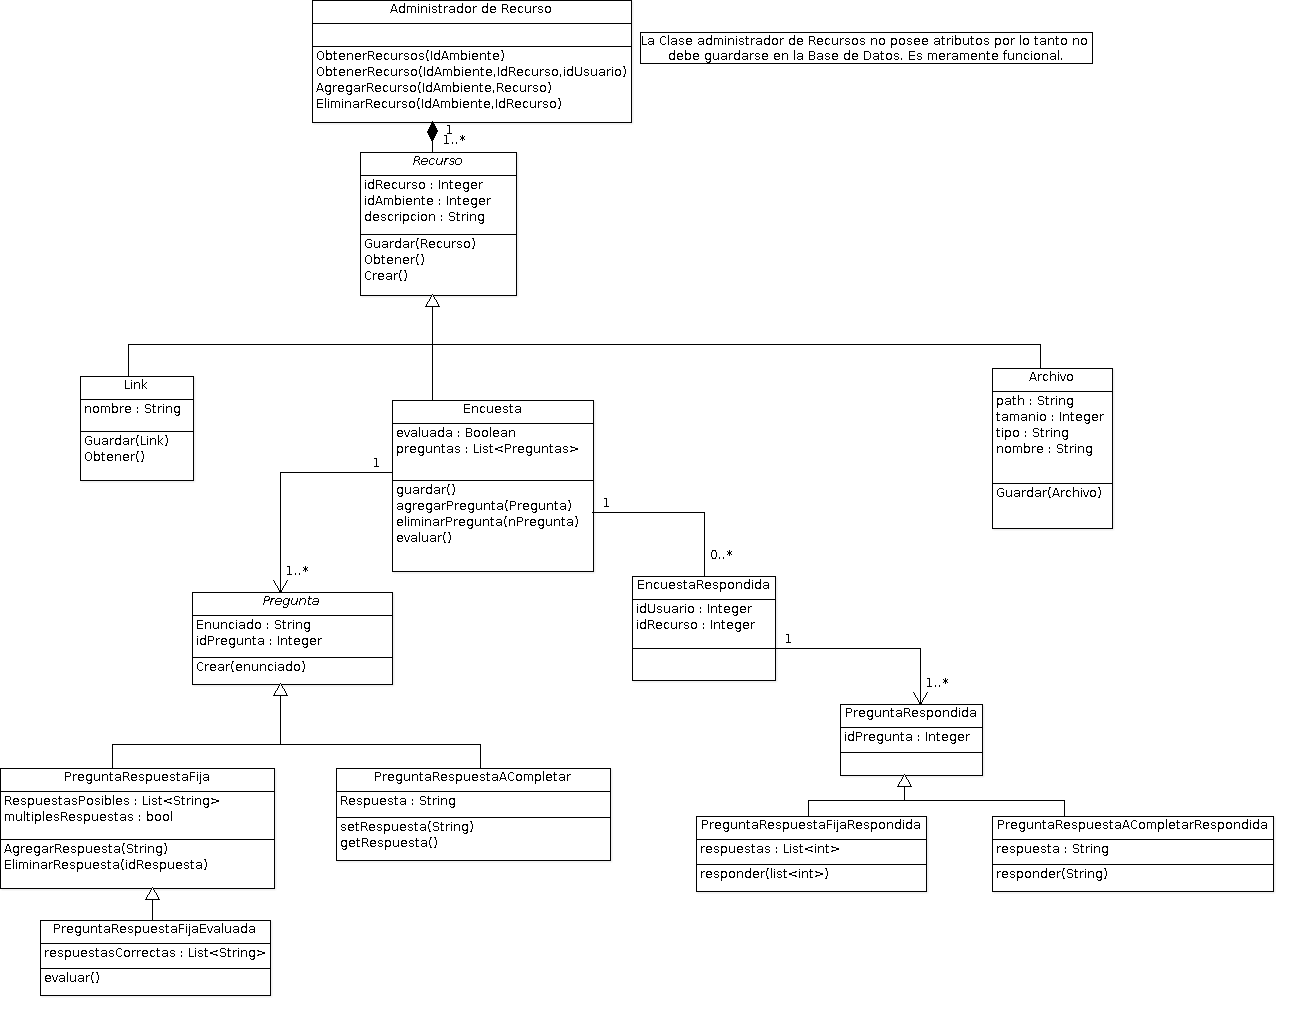
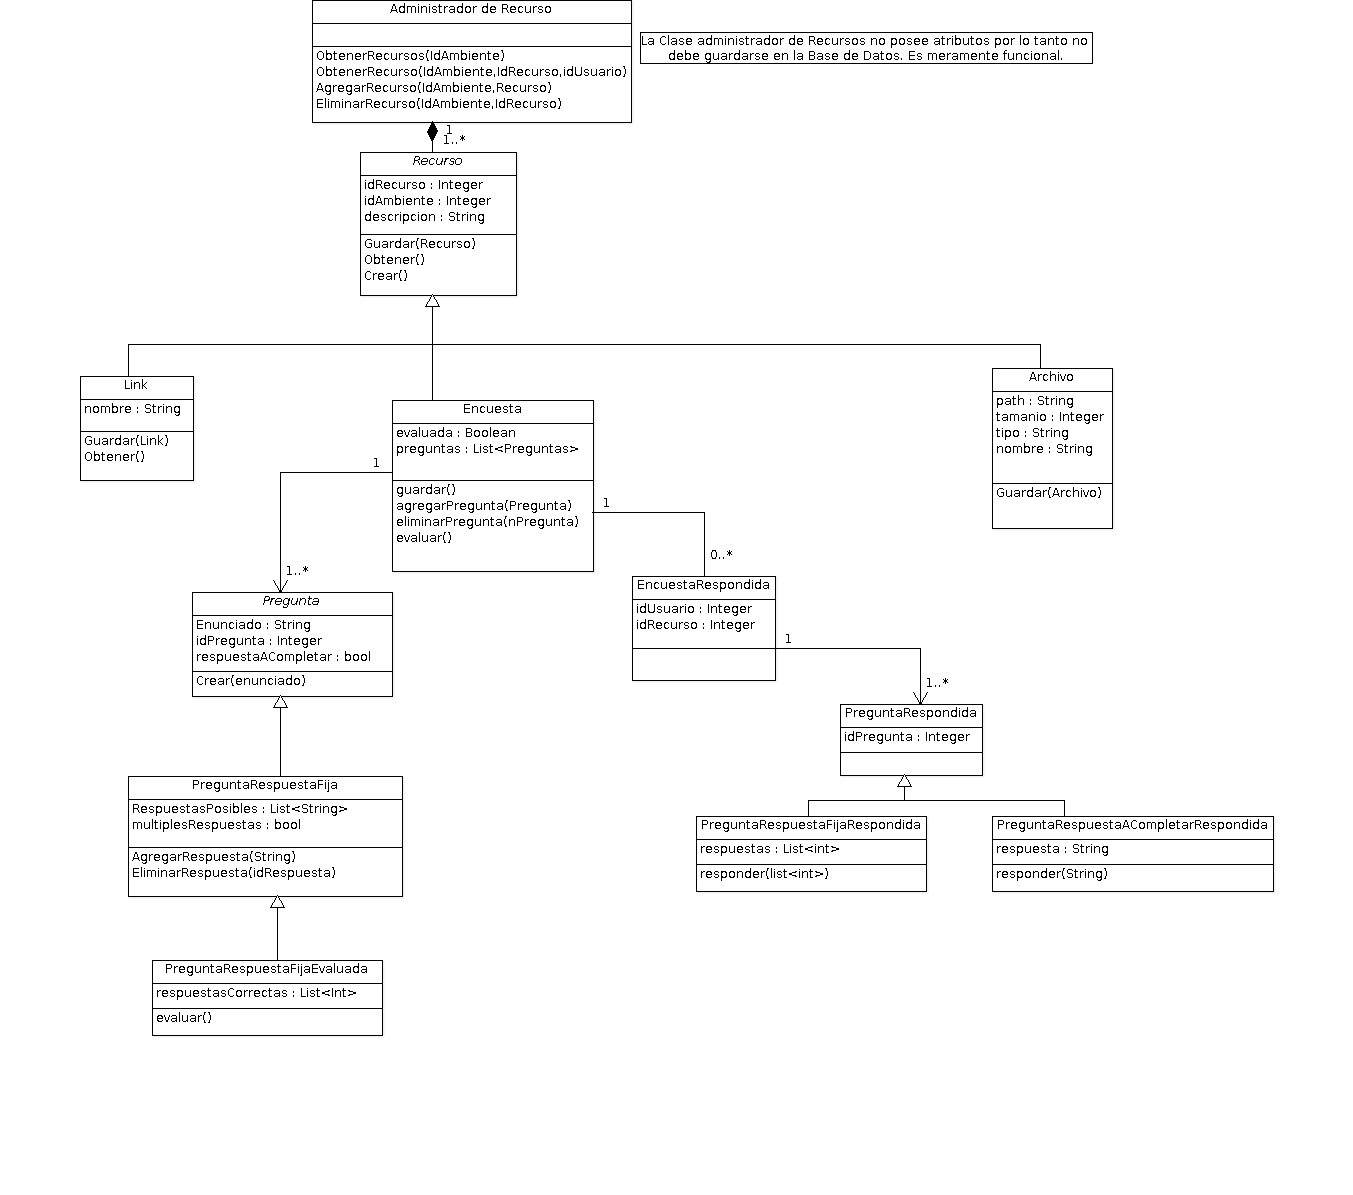
Dami: Subo actualizacion del informe

diff --git a/Prueba/doc/Edicion/Informe.tex b/Prueba/doc/Edicion/Informe.tex
@@ -20,7 +20,9 @@
 \usepackage[nottoc,numbib]{tocbibind}
 \setcounter{tocdepth}{4}
 \setcounter{secnumdepth}{4}
-
+\newcommand{\mayor}{\char60 }
+\newcommand{\desc}{Capa Negocio- Recursos/Materiales - Grupo 2 - Tp Taller II - v 2.0 }
+\newcommand{\menor}{\char62 }
 \marginsize{2cm}{2cm}{.5cm}{3cm} 
 \pagestyle{myheadings}
 \renewcommand{\headrulewidth}{0.5pt}
@@ -84,7 +86,7 @@ Los servicios que brindamos son:
 	\item Permitir el acceso a responder encuestas y realizar su evaluaci\'on seg\'un el criterio establecido por el creador de la misma.
 	\item Linkear p\'aginas externas y/o internas de la web.
 \end{enumerate}
-\markboth{Capa Negocio}{Capa Negocio- Recursos/Materiales - Grupo 2 - Tp Taller II - v 1.1}	
+\markboth{Capa Negocio}{\desc}	
 \section{Definiciones}
 \begin{description}
 	\item Cosas que ya se han definido hasta el momento por la interacci\'on con los grupos y docentes:
@@ -162,17 +164,37 @@ La cual se compone de los siguientes elementos:
 \end{itemize}
 \item Preguntas: es una lista de preguntas. Como m\'aximo se aceptaran \textbf{30 preguntas por encuesta}. El id de cada pregunta estar\'a relacionado con la posici\'on que ocupen en la lista m\'as uno, es decir \textit{preguntas[0]} ser\'a la pregunta n\'umero 1 asociada a esa encuesta. 
 \begin{itemize}
-\item Tipo De Datos : list
+\item Tipo De Datos : list  <Pregunta>
 \item Longitud : 30
 \end{itemize}
 \end{itemize}
 
 Dicho esto tendremos que definir las preguntas que tendremos. En nuestro caso habr\'a dos tipos de preguntas
 \begin{enumerate}
+\item Pregunta : Es la clase padre donde la respuesta esperada podria ser m\'ultiple o bien una descripci\'on.
 \item PreguntaRespuestaFija : son aquellas preguntas en donde el que la crea define las respuestas posibles, y el que las responde tiene la posibilidad de elegir una o mas respuestas, seg\'un lo defina el creador.En el prototipo son las preguntas 1 y 2.
-\item PreguntaRespuestaACompletar : Son preguntas donde la respuesta esperada es una descripci\'on.En el prototipo corresponde a la pregunta 3.
 \end{enumerate}
+\textsc{Pregunta}\\
 
+\includegraphics[scale=0.75]{Pregunta.png}
+
+\begin{itemize}
+\item Enunciado : ser\'a la pregunta en si. Es una cadena cuya longitud m\'axima ser\'a 200 caracteres.
+\begin{itemize}
+\item Tipo De Datos : String
+\item Longitud : 200
+\end{itemize}
+\item idPregunta :  el id de la pregunta corresponde a un entero que identifique cada pregunta dentro de una encuesta
+\begin{itemize}
+\item Tipo De Datos : Int
+\item Longitud : 2
+\end{itemize}
+\item RespuestaACompletar : es un booleano que muestra si una respuesta es a completar o es de opcion m\'ultiple. Por defecto todas las preguntas son a completar. En caso contrario se deber\'a crear una \textit{PreguntaRespuestaFija}
+\begin{itemize}
+\item Tipo De Datos : Bool
+\item Longitud : 1
+\end{itemize}
+\end{itemize}
 \textsc{PreguntaRespuestaFija}:\\
 
 Estas preguntas tendr\'an el siguiente formato:\\
@@ -188,21 +210,40 @@ Estas preguntas tendr\'an el siguiente formato:\\
 \item RespuestasPosibles : es una lista de tamaño m\'aximo 6, es decir una pregunta a lo sumo podr\'a tener 6 respuestas correctas. Las respuestas se distinguen seg\'un la posici\'on que ocupan dentro de la lista, es decir si respuestaPosible[0] = Fiuba , la respuesta fiuba estar\'a asociada a la primera posici\'on de la lista.\\
 Vale aclarar que si las multiples respuestas est\'an apagadas, la lista contendr\'a si y solo si una respuesta, y no permitir\'a agregar m\'as.\\
 \begin{itemize}
-\item Tipo De Datos : list
+\item Tipo De Datos : list<String>
 \item Longitud : 6
 \end{itemize} 
 \item A la vez, como este tipo de preguntas es posible evaluar habr\'a una clase \textbf{PreguntaRespuestaFijaEvaluada} la cual tendr\'a las opciones correctas que se esperan.\\
 
 \begin{itemize}
 	\item RespuestasCorrectas : esta lista contendr\'a los/el id de las respuestas que se consideran correctas. Es decir el tamaño ser\'a desde 0 a la cantidad de Respuestas agregadas en la instancia anterior. Como valor m\'aximo se especificar\'a el valor 6 en el caso de que todas las respuestas sean correctas.
+	\begin{itemize}
+\item Tipo De Datos : list<Int>
+\item Longitud : 6
+\end{itemize} 
 \end{itemize}
+\end{itemize}
+
+
+\subsection{Links}
+
+Los links ser\'an las referencias a otros sitios webs o referencias a articulos dentro de este mismo sitio.
+
+\includegraphics[scale=0.75]{Links.png}
+
+\begin{itemize}
+\item Nombre: es el path adonde apunta el hiperv\'inculo. Definiremos como tamaño m\'aximo 200 carateres.
+\begin{itemize}
+\item Tipo De Datos : String
+\item Longitud : 200
+	\end{itemize}
 \end{itemize}
 \end{description}
 
-\markboth{Capa Negocio}{Capa Negocio- Recursos/Materiales - Grupo 2 - Tp Taller II - v 1.1}	
+\markboth{Capa Negocio}{\desc}	
 \section{Diagrama de Clases}
-	\includegraphics[scale=0.4]{Diagramadeclase4.png}
-\markboth{Capa Negocio}{Capa Negocio- Recursos/Materiales - Grupo 2 - Tp Taller II - v 1.1}	
+	\includegraphics[scale=0.4]{Diagramadeclase5.png}
+\markboth{Capa Negocio}{\desc}	
 \pagebreak
 	
 
@@ -284,5 +325,5 @@ Vale aclarar que si las multiples respuestas est\'an apagadas, la lista contendr
 %			\end{description}
 %		\end{itemize}
 	\end{description}
-	\markboth{Capa Negocio}{Capa Negocio- Recursos/Materiales - Grupo 2 - Tp Taller II - v 1.1}
+	\markboth{Capa Negocio}{\desc}
 \end{document}
